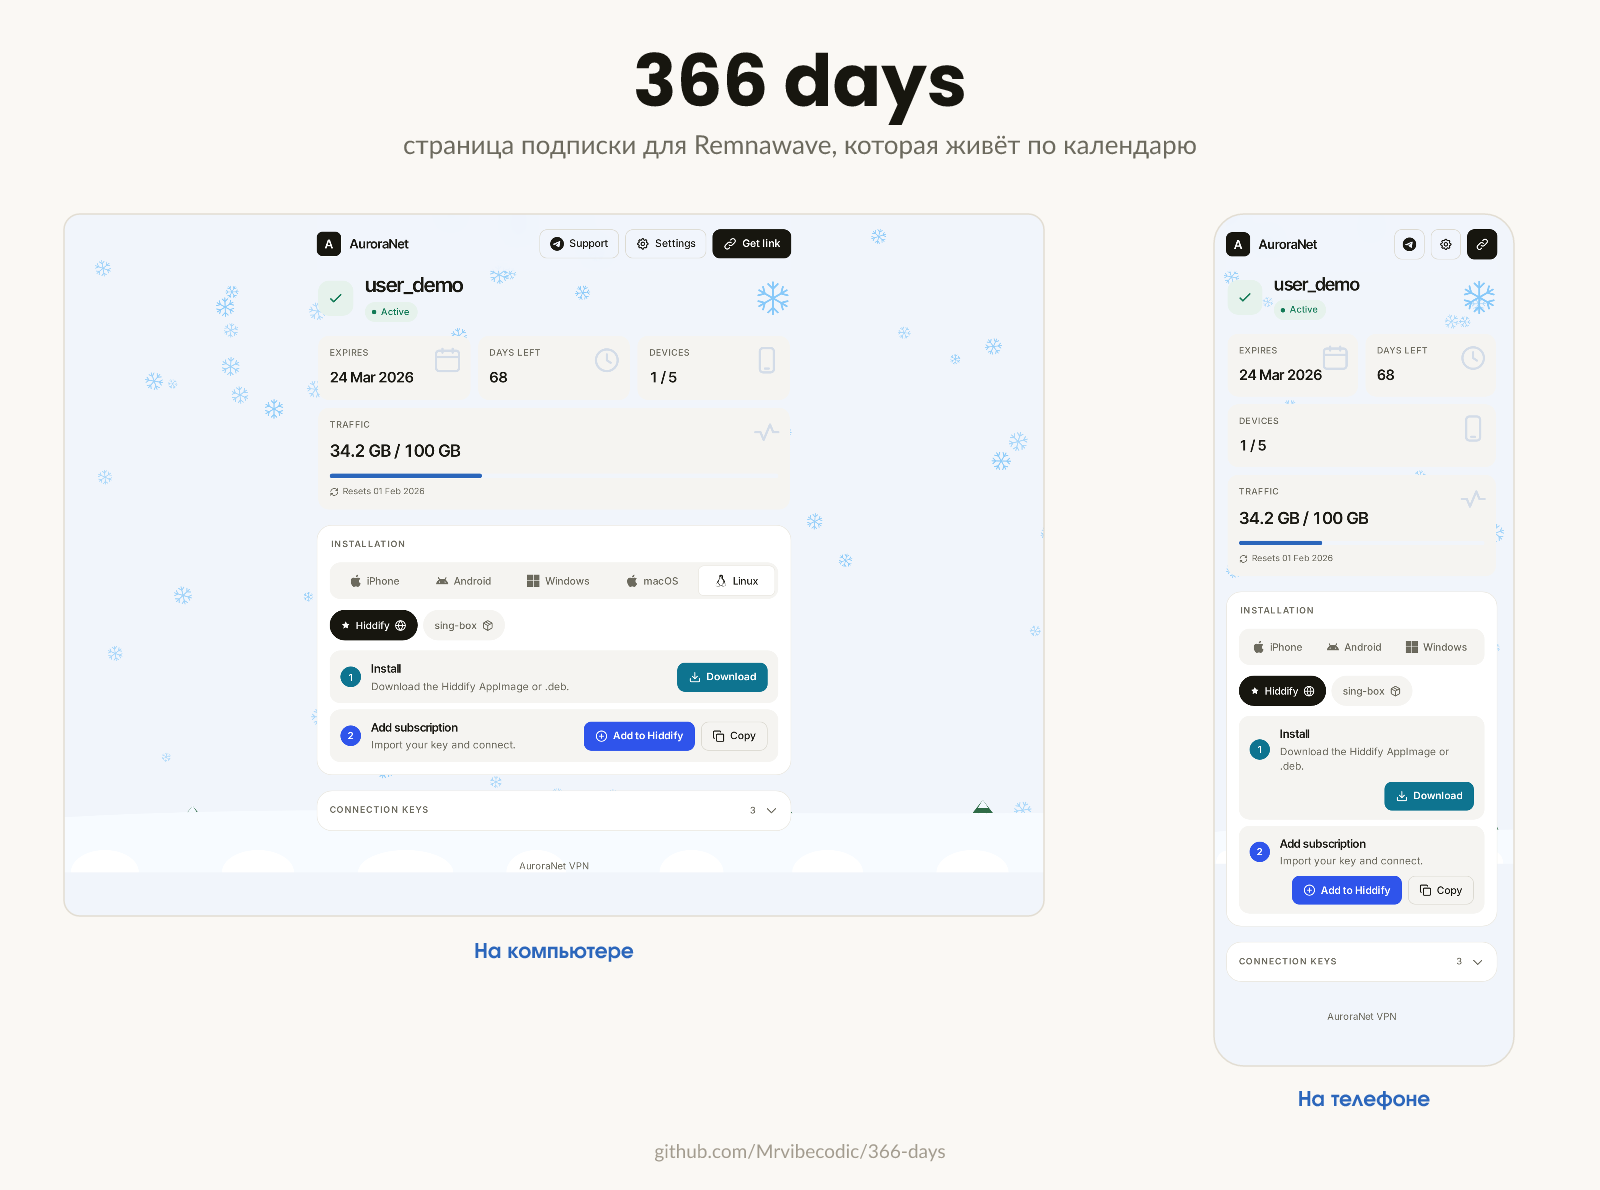
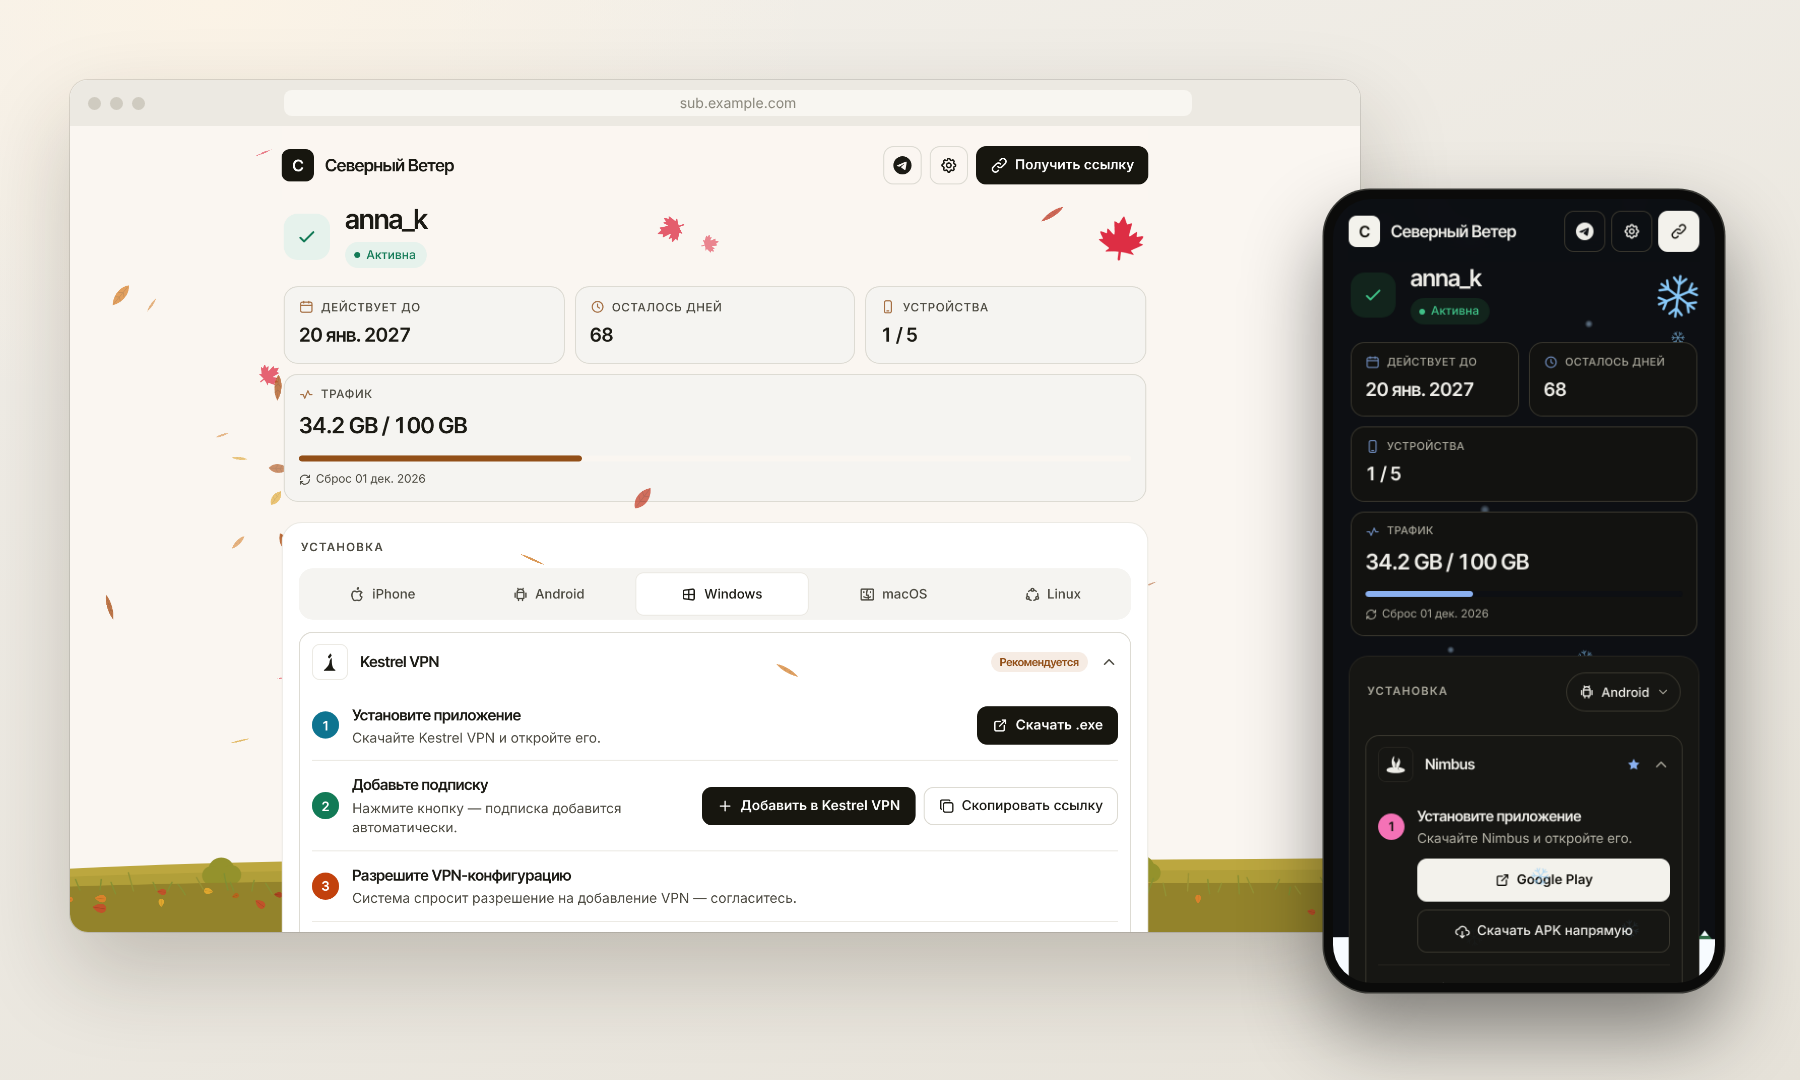
Релиз 2.0.0
Номер версии в docker-compose.yml и README, заметки к релизу, новые скриншоты и карточка для соцсетей, ссылка на живое превью. Всё про версии 1.x вынесено в отдельный документ в ветке gh-pages.

diff --git a/.github/release-notes/v2.0.0.md b/.github/release-notes/v2.0.0.md
@@ -1,0 +1,38 @@
+v2.0.0 — новая страница
+Большое обновление: страница стала вдвое легче, быстрее открывается и по-новому показывает приложения. Посмотреть вживую можно в [превью](https://mrvibecodic.github.io/366-days/).
+
+### Что нового
+
+- **Приложения списком или плитками.** По умолчанию — список: рекомендуемое приложение раскрыто сразу, под ним шаги. Плитки включаются строкой `SUBPAGE_APPS_VIEW=tiles` в `.env`. Выбор приложения и платформы запоминается.
+- **Первый экран на телефоне.** Шапка в один ряд, карточки подписки компактнее — установка приложения видна без прокрутки.
+- **Понятные кнопки.** Главная кнопка шага выделена, остальные спокойные. На телефоне кнопки во всю ширину.
+- **Подсказки, когда что-то не так.** Подписка истекла или трафик кончился — прямо в блоке появляется кнопка «Поддержка». Лимит устройств заполнен — карточка подсвечивается.
+- **Сезонные анимации заново.** Листья и лепестки переворачиваются на лету, дует ветер, трава и деревья покачиваются. Летом появились золотые пылинки.
+- **Страница вдвое легче**: 84 КБ вместо 176 при сжатии.
+- **Не зависит от telegram.org.** Раньше страница могла долго не открываться, если у человека заблокирован `telegram.org`. Теперь скрипт Telegram лежит в самом образе и нужен только внутри Telegram.
+- **Контейнер стартует за секунду** вместо 10–20.
+- **Образ под ARM-серверы.**
+
+### Что исправлено
+
+- После смены платформы переставали открываться подсказки на карточках, а ключ копировался дважды.
+- Выбранная платформа сбрасывалась при смене языка.
+- Кнопка не работала, если в её ссылке был апостроф.
+- На каждой загрузке были две ошибки «не найдено» из-за иконок сайта.
+
+### Что изменилось в настройках
+
+- `SUBPAGE_TG_SELFHOST` больше не нужен — строку можно удалить из `.env`.
+- Новая настройка `SUBPAGE_APPS_VIEW`: `list` (по умолчанию) или `tiles`.
+
+Остальное в `.env` и всё, что настраивается в панели через Subpage Builder, работает как раньше.
+
+### Обновление
+
+Поменяйте номер в `docker-compose.yml` на `2.0.0` и выполните:
+
+```bash
+docker compose pull && docker compose up -d
+```
+
+Нужна панель 3.x. Если у вас панель 2.x или вы остаётесь на 1.x — загляните в [документ про версии 1.x](https://github.com/Mrvibecodic/366-days/blob/gh-pages/v1.md).

diff --git a/README.md b/README.md
@@ -9,6 +9,10 @@
 
 ![Превью](docs/promo.png)
 
+**[Открыть живое превью](https://mrvibecodic.github.io/366-days/)** — там можно полистать месяцы и переключить вид приложений.
+
+![Четыре сезона](docs/seasons.png)
+
 Новости и обновления — в [группе](https://t.me/+2lmP1yhxpCE3MDcy), вопросы и обсуждение — в [чате](https://t.me/+8BJQXYXYLqM4YWYy).
 
 ## Что внутри
@@ -297,18 +301,17 @@ cd /opt/remnawave/nginx && docker compose up -d && docker compose logs -f -t
 
 Эта страница — надстройка над официальной страницей подписки Remnawave. Какая версия официальной страницы попала внутрь образа — важно, потому что от неё зависит, с какой панелью всё это работает.
 
-- **1.2.0 и новее** собраны на официальной странице подписки **8.0**. Она рассчитана на панель **3.0**.
-- Сборки до 1.2.0 собраны на официальной странице 7.x — под панели 2.x.
+**2.0** собрана на официальной странице подписки **8.0.1** и рассчитана на панель **3.x**.
 
-Поэтому в `docker-compose.yml` указан конкретный номер версии, а не `latest`:
+В `docker-compose.yml` указан конкретный номер версии, а не `latest`:
 
 ```
-image: ghcr.io/mrvibecodic/366-days:1.2.2
+image: ghcr.io/mrvibecodic/366-days:2.0.0
 ```
 
 Так вы обновляетесь тогда, когда сами этого захотели, а не случайным `docker compose pull`.
 
-Если у вас панель **2.x** — на 1.2.0 не переходите. Оставьте ту сборку, которая у вас уже работает, и обновляйтесь после перехода на панель 3.0.
+Остались на 1.x или у вас панель 2.x? Всё, что касается старых версий — на чём они собраны, какая панель нужна, их настройки и как перейти на 2.0 — вынесено в отдельный документ: [версии 1.x](https://github.com/Mrvibecodic/366-days/blob/gh-pages/v1.md).
 
 ## Обновление
 
